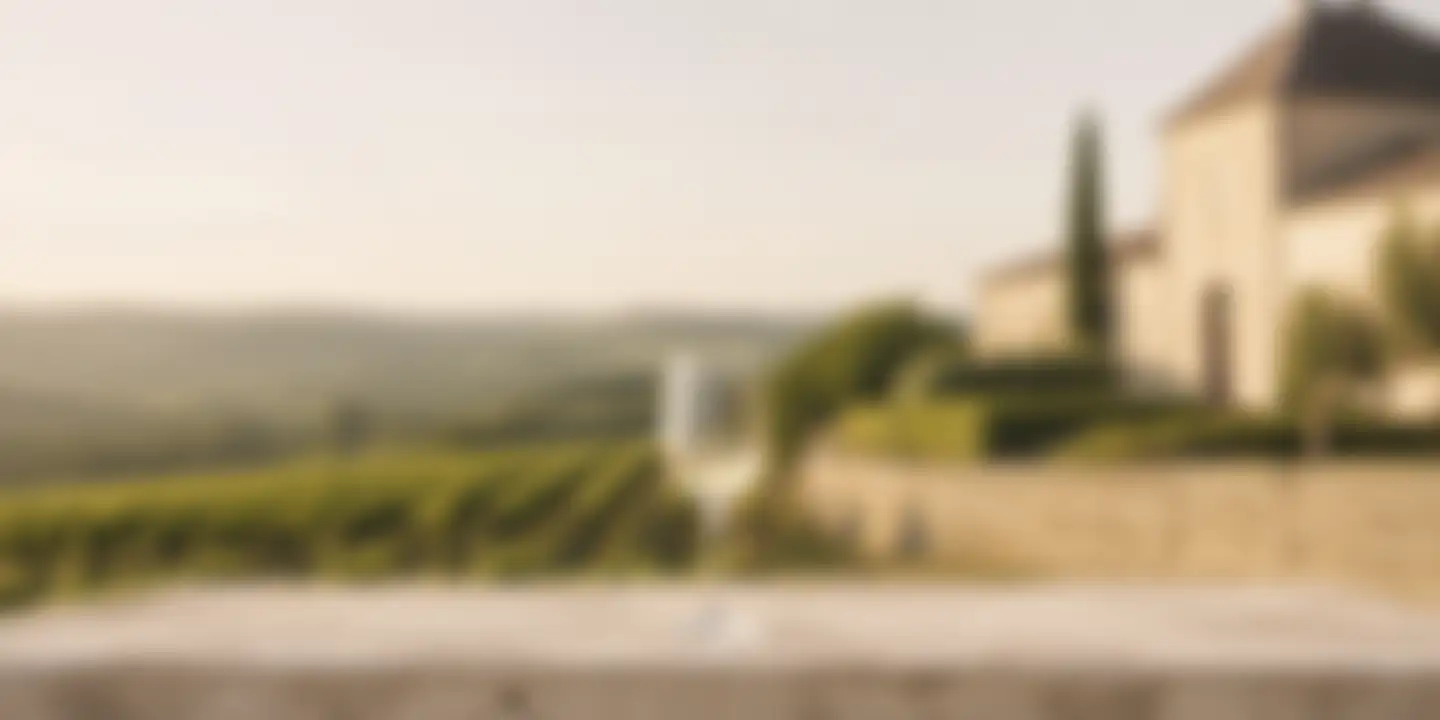
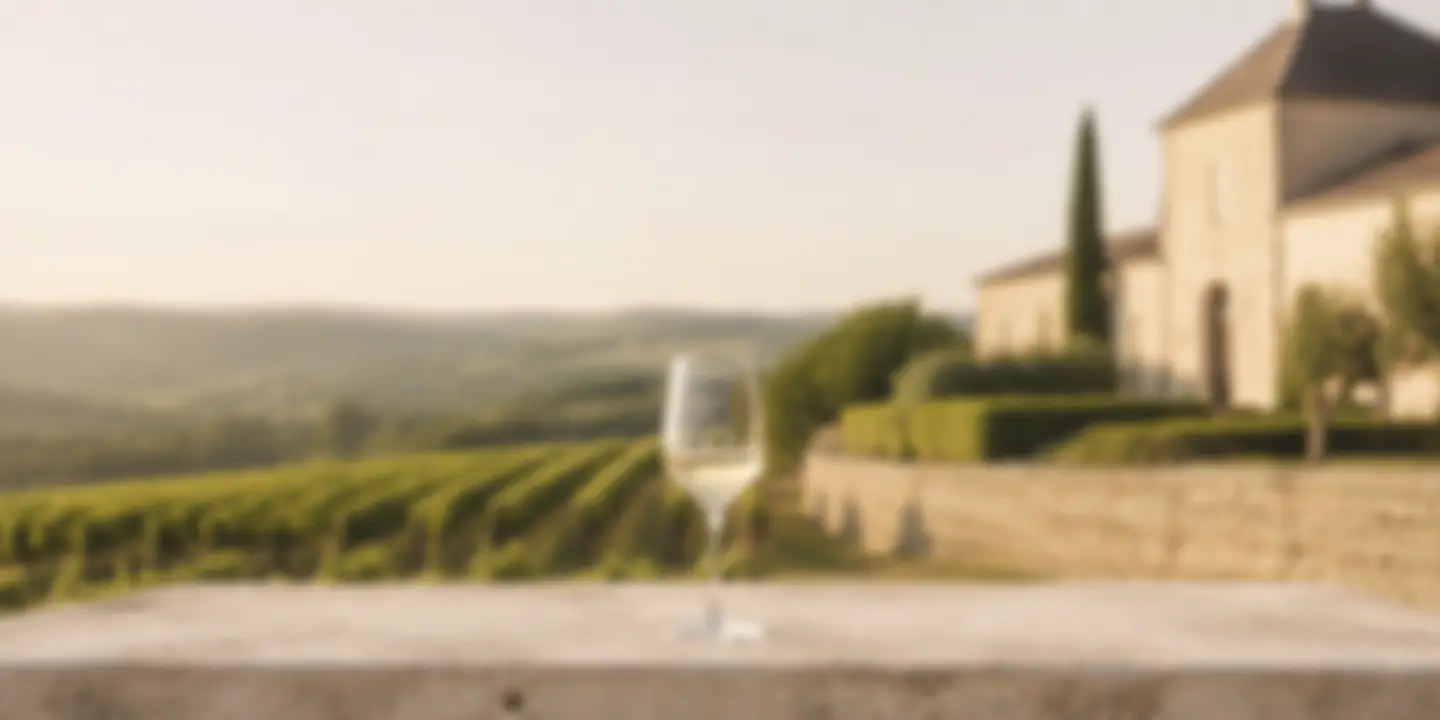
feat(webapp): фон в полную силу и мягче размытие
По бокам от колонки содержимого фон был не виден совсем, хотя текста там нет.
Ограничение по контрасту действует только под стеклом: текст нигде не ложится
на фотографию напрямую. Поэтому яркость поднята до предела, а стекло усилено
соразмерно — сквозь него картинка выглядит как прежде, выигрывают ровно те
области, ради которых всё и делалось.

Размытие ослаблено вдвое. Замер показал, что плотность стекла от силы размытия
почти не зависит: крупные светлые области переживают его в любом случае, и при
sigma 6 стекло требуется такое же, как при 12. Резкость досталась бесплатно.

Напоминание о неподтверждённой почте получило своё стекло: оно лежит вне
колонки содержимого, и на ярком фоне его текст остался бы без защиты.

Замер по худшему пикселю каждого из десяти фонов: подписи 4.91:1 и 5.11:1,
основной текст 7.8 и 9.2 при норме 4.5.

diff --git a/webapp/src/index.css b/webapp/src/index.css
@@ -216,13 +216,13 @@
  */
 .app-background {
   background-image: var(--background-image-light);
-  opacity: 0.35;
+  opacity: 1;
   animation: app-background-fade 420ms ease-out both;
 }
 
 .dark .app-background {
   background-image: var(--background-image-dark);
-  opacity: 0.45;
+  opacity: 1;
 }
 
 /*
@@ -236,8 +236,8 @@
   background: linear-gradient(
     to bottom,
     var(--background) 0%,
-    transparent 18%,
-    transparent 78%,
+    transparent 9%,
+    transparent 88%,
     var(--background) 100%
   );
 }
@@ -251,13 +251,13 @@
  * внутри остаются на рамках, иначе слои складываются и поверхность мутнеет.
  */
 .glass {
-  background-color: color-mix(in srgb, var(--card) 40%, transparent);
+  background-color: color-mix(in srgb, var(--card) 78%, transparent);
   backdrop-filter: blur(10px);
   -webkit-backdrop-filter: blur(10px);
 }
 
 .dark .glass {
-  background-color: color-mix(in srgb, var(--card) 25%, transparent);
+  background-color: color-mix(in srgb, var(--card) 68%, transparent);
 }
 
 @keyframes app-background-fade {

diff --git a/webapp/src/root-layout.tsx b/webapp/src/root-layout.tsx
@@ -48,7 +48,8 @@ export function RootLayout() {
         )}
       </header>
 
-      <div className="relative z-10">
+      {/* Напоминание о почте лежит вне колонки содержимого, поэтому несёт своё стекло. */}
+      <div className="glass relative z-10 empty:hidden">
         <EmailVerificationNotice />
       </div>
 

diff --git a/docs/DESIGN.md b/docs/DESIGN.md
@@ -171,18 +171,30 @@ IP-адреса, а §6 политики конфиденциальности п
 
 | Параметр | Тёмная | Светлая |
 |---|---|---|
-| Непрозрачность фона | 0.45 | 0.35 |
-| Плотность стекла | 25% | 40% |
-| Размытие | 10px | 10px |
+| Непрозрачность фона | 100% | 100% |
+| Плотность стекла | 68% | 78% |
+| Размытие стекла | 10px | 10px |
+
+Фотография показывается в полную силу: текст на неё нигде не ложится напрямую, поэтому
+ограничение по контрасту действует только под стеклом. На широком экране колонка
+содержимого уже окна, и слева и справа снимок виден без всякого стекла — ради этого
+яркость и поднята до предела.
+
+**Соразмерность.** Яркость фона и плотность стекла связаны: подняв одно, надо поднять
+другое, иначе подписи проваливаются. Сквозь стекло картинка при этом выглядит одинаково —
+выигрывают только области без текста.
 
 **Почему подписи светлее, чем были.** Текст на фотографии — главный риск этой конструкции:
 даже на размытой мелкие капс-лейблы 10–11px давали около 2:1 при норме 4.5. Чем плотнее
 стекло, тем безопаснее текст и тем меньше видно фон. Расчёт показал, что один шаг контраста
-у `--muted-foreground` позволяет ослабить стекло с 50% до 10%, то есть почти полностью
-открыть фотографию. Поэтому подписи стали контрастнее, а стекло — прозрачнее.
+у `--muted-foreground` позволяет заметно ослабить стекло. Поэтому подписи стали контрастнее.
 
-Замер по худшему пикселю каждого из десяти фонов: подписи 5.15:1 в тёмной теме и 4.99:1
-в светлой, основной текст 8.2 и 8.9. Любая правка фона, стекла или цвета подписей требует
+**Размытие запечено мягким (sigma 6), а не сильным.** Замер показал, что плотность стекла
+от силы размытия почти не зависит — крупные светлые области переживают его в любом случае.
+Значит резкость достаётся бесплатно, и снимок читается лучше.
+
+Замер по худшему пикселю каждого из десяти фонов: подписи 4.91:1 в тёмной теме и 5.11:1
+в светлой, основной текст 7.8 и 9.2. Любая правка фона, стекла или цвета подписей требует
 повторного замера — эти три величины связаны.
 
 ## Движение
